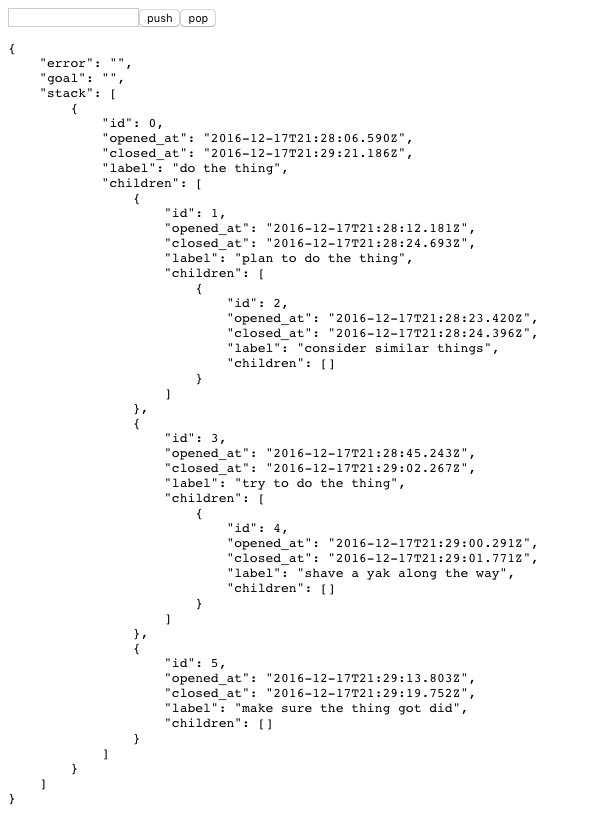
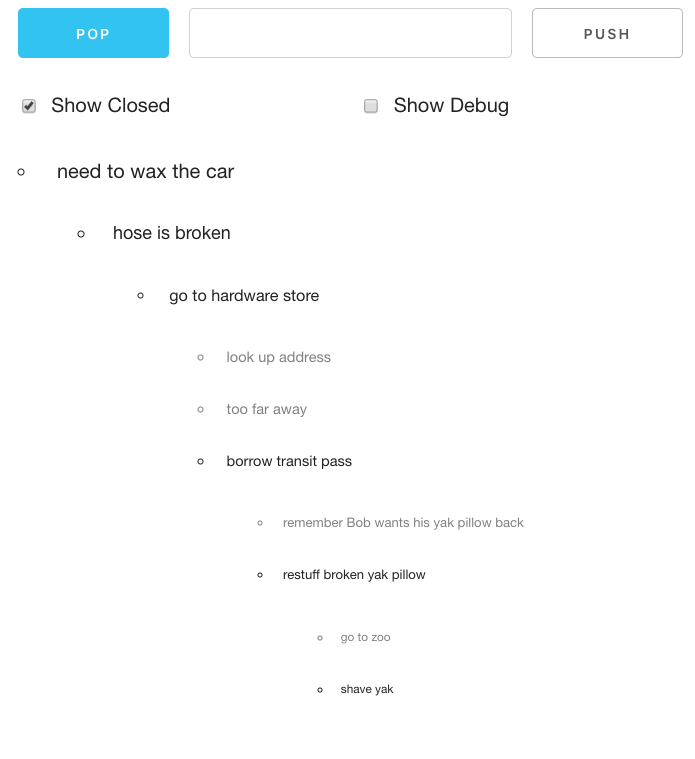
much update

diff --git a/model/Frame.js b/model/Frame.js
@@ -46,7 +46,7 @@ Frame.prototype.toMithril = function (showClosed) {
     var mappedchildViews = []
     var reducedchildViews = []
     var els = [m('li', {
-        style: "color: " + (this.closed_at() ? "grey" : "black")
+        class: this.closed_at() ? "closed" : "open"
     }, this.label())]
 
     if (childArray.length) {

diff --git a/index.html b/index.html
@@ -3,6 +3,11 @@
 <head>
     <title>staqz</title>
     <link rel="stylesheet" type="text/css" href="vendor/skeleton-framework/skeleton-framework/dist/skeleton.min.css">
+    <style type="text/css">
+        li.closed {
+            color: grey;
+        }
+    </style>
 </head>
 <body>
     <div id="app"></div>
